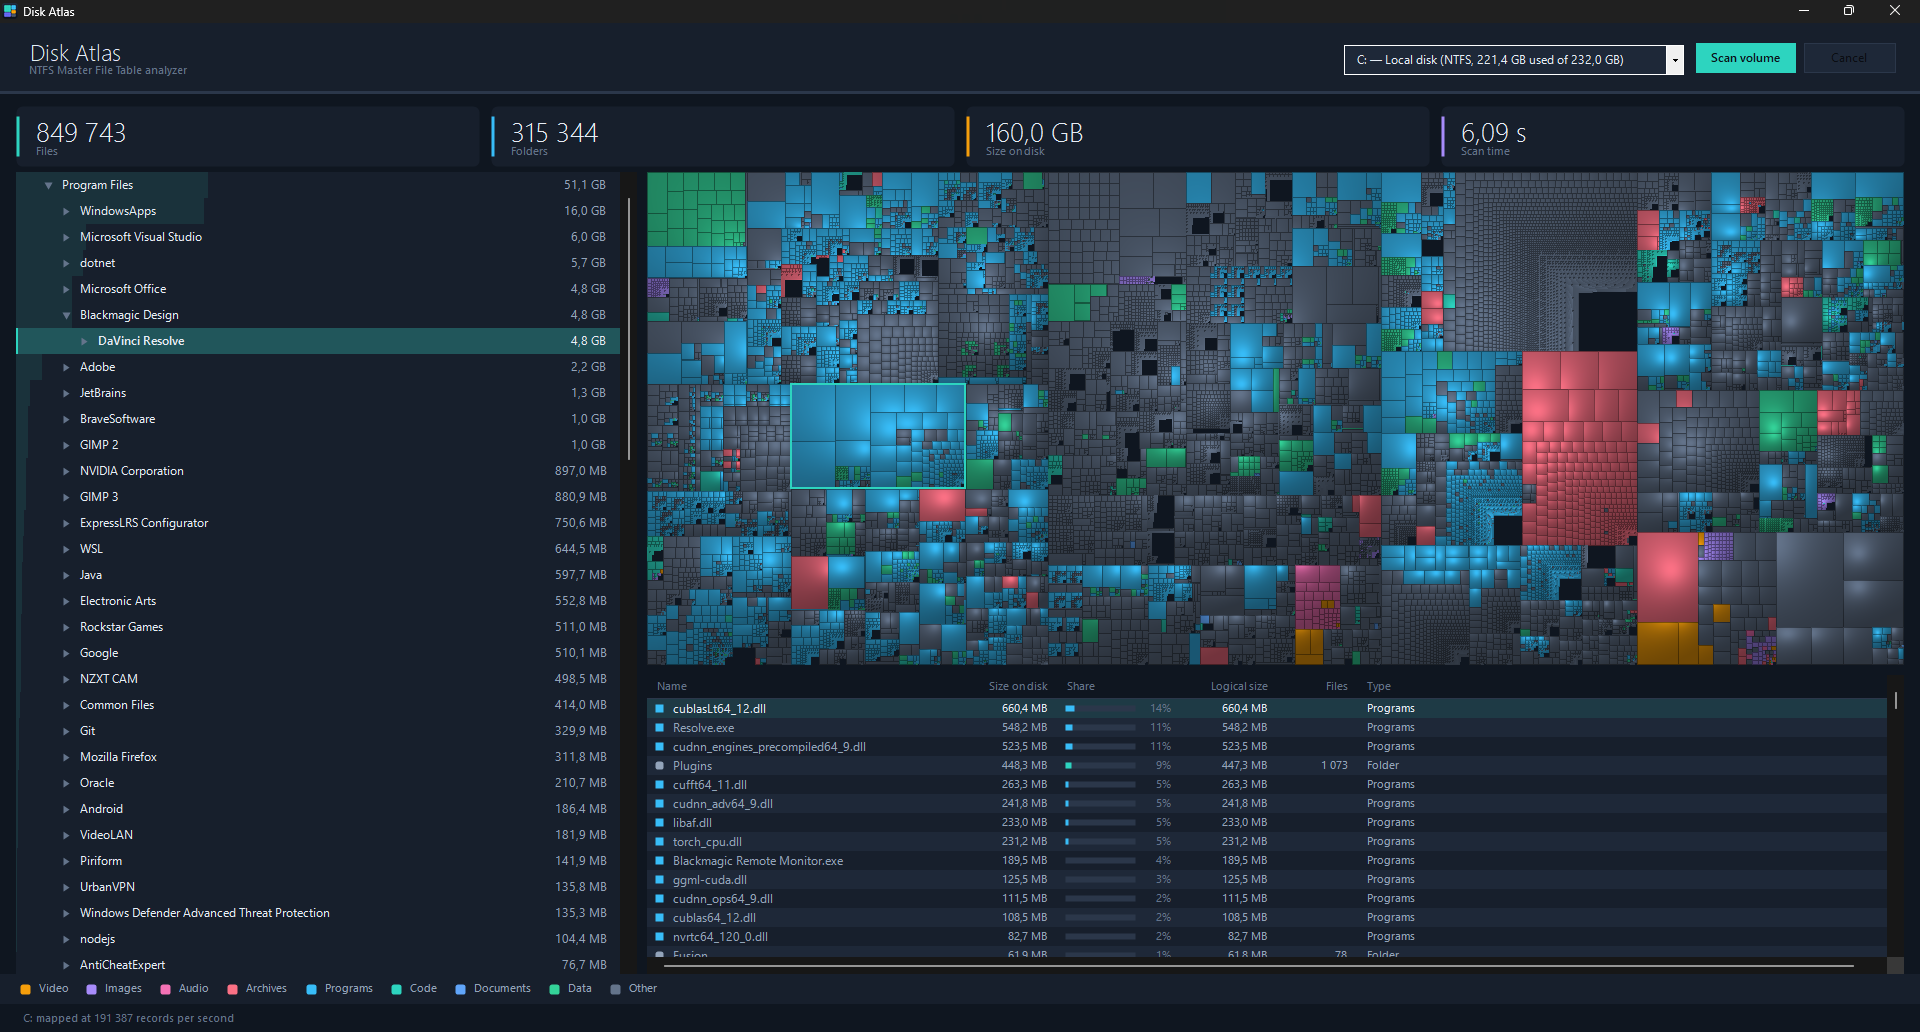
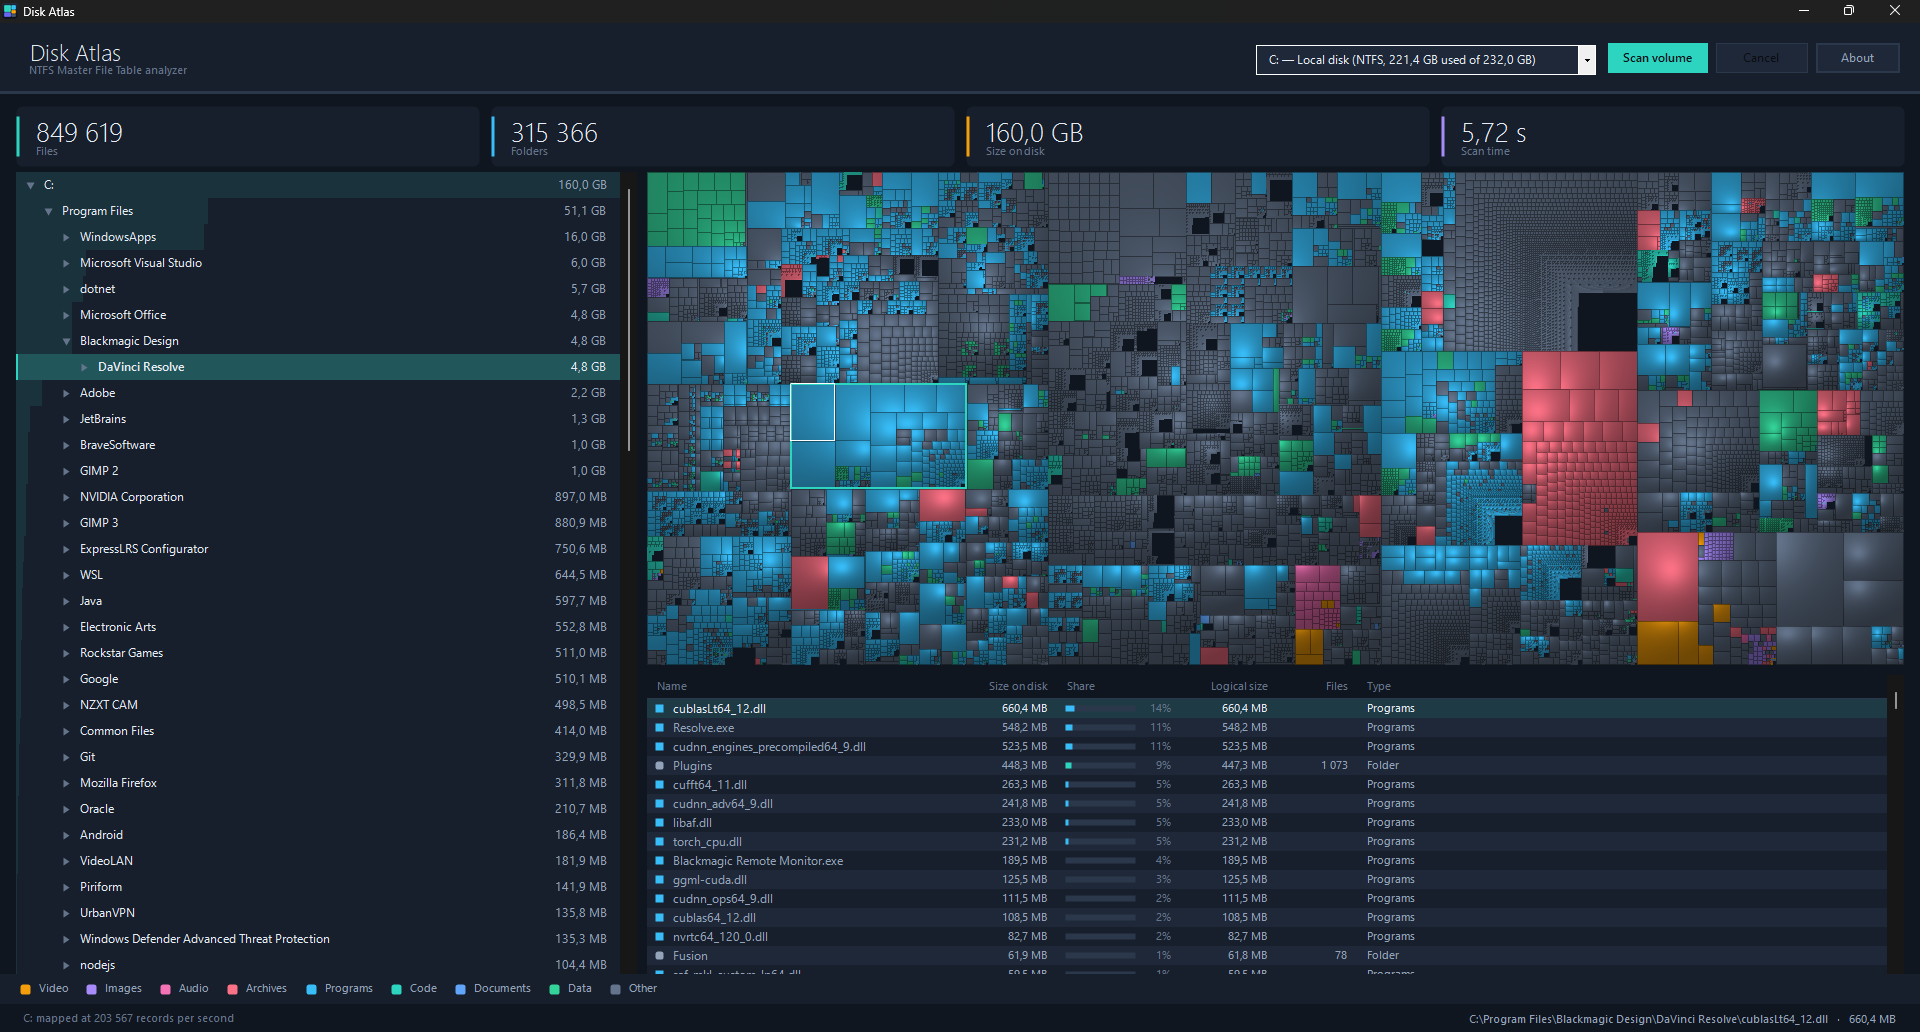
Refresh the screenshot
Shows the volume at the top of the tree, the hovered path starting at the
drive rather than a full stop, and the about button. Figures come from the
same run: 849,619 files in 315,366 folders, mapped in 5.7 seconds.

diff --git a/README.md b/README.md
@@ -6,7 +6,7 @@ Windows disk space analyzer that maps an entire NTFS volume in seconds by parsin
 
 ![Disk Atlas](docs/screenshot.png)
 
-A 232 GB system drive holding 849,743 files in 315,344 folders, mapped in **6.1 seconds** — about 191,000 records a second.
+A 232 GB system drive holding 849,619 files in 315,366 folders, mapped in **5.7 seconds** — about 204,000 records a second.
 
 ## Why it is fast
 
